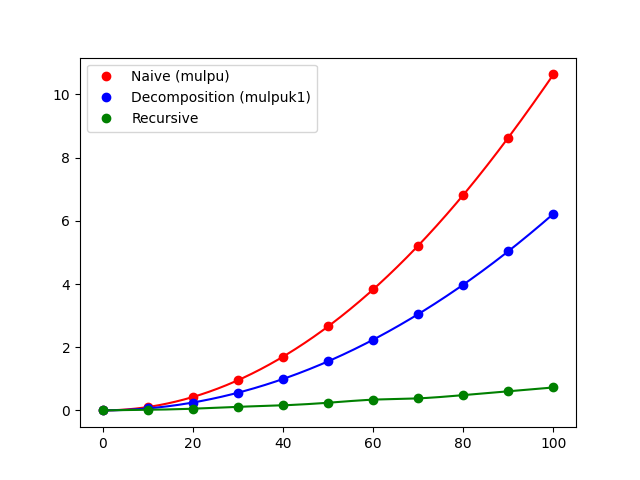
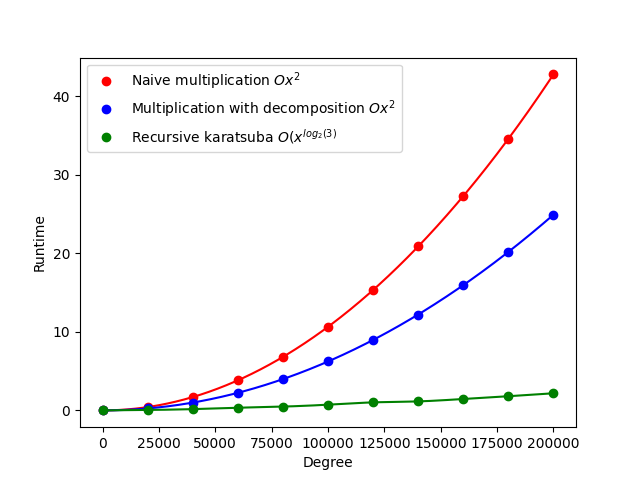
Full tests and better legend

diff --git a/wrapper.py b/wrapper.py
@@ -15,7 +15,7 @@ def plot_performances(option, name, color):
         print(line)
         data = line.split()
         # Getting x and y values
-        x = int(data[-2][:-1])/1000
+        x = int(data[-2][:-1])
         y = float(data[-1])
         xi.append(x)
         yi.append(y)
@@ -33,12 +33,14 @@ if __name__ == "__main__":
     subprocess.call("make")
     
     print("Plotting performances...")
-    for option in [("-n", "Naive (mulpu)", "r"),
-                   ("-k1",  "Decomposition (mulpuk1)", "b"),
-                   ("-k", "Recursive", "g")]:
+    for option in [("-n", "Naive multiplication $O{x^2}$", "r"),
+                   ("-k1","Multiplication with decomposition $O{x^2}$", "b"),
+                   ("-k", "Recursive karatsuba $O(x^{log_2(3)}$", "g")]:
         print(f"Plotting \"{option[1]}\"...")
         plot_performances(*option)
 
+    plt.ylabel("Runtime")
+    plt.xlabel("Degree")
     plt.legend(loc="best")
     plt.savefig("performances.png")
     print("Done.")

diff --git a/src/main.c b/src/main.c
@@ -19,11 +19,11 @@ int main(int argc, char **argv) {
     if (argc != 2)
         print_options();
     else if (strcmp(argv[1], "-n") == 0)  // mulpu
-        test_multiply(mulpu, 100000, 10000);
+        test_multiply(mulpu, 200000, 20000);
     else if (strcmp(argv[1], "-k") == 0)  // mulpuk1
-        test_multiply(mulpukr, 100000, 10000);
+        test_multiply(mulpukr, 200000, 20000);
     else if (strcmp(argv[1], "-k1") == 0) // mulpuk1
-        test_multiply(mulpuk1, 100000, 10000);
+        test_multiply(mulpuk1, 200000, 20000);
     else if (strcmp(argv[1], "-t") == 0){ // Tests
         printf("mulpuk1 test\n");
         compare_multiply(mulpuk1); // Make sure that mulpuk1 works
